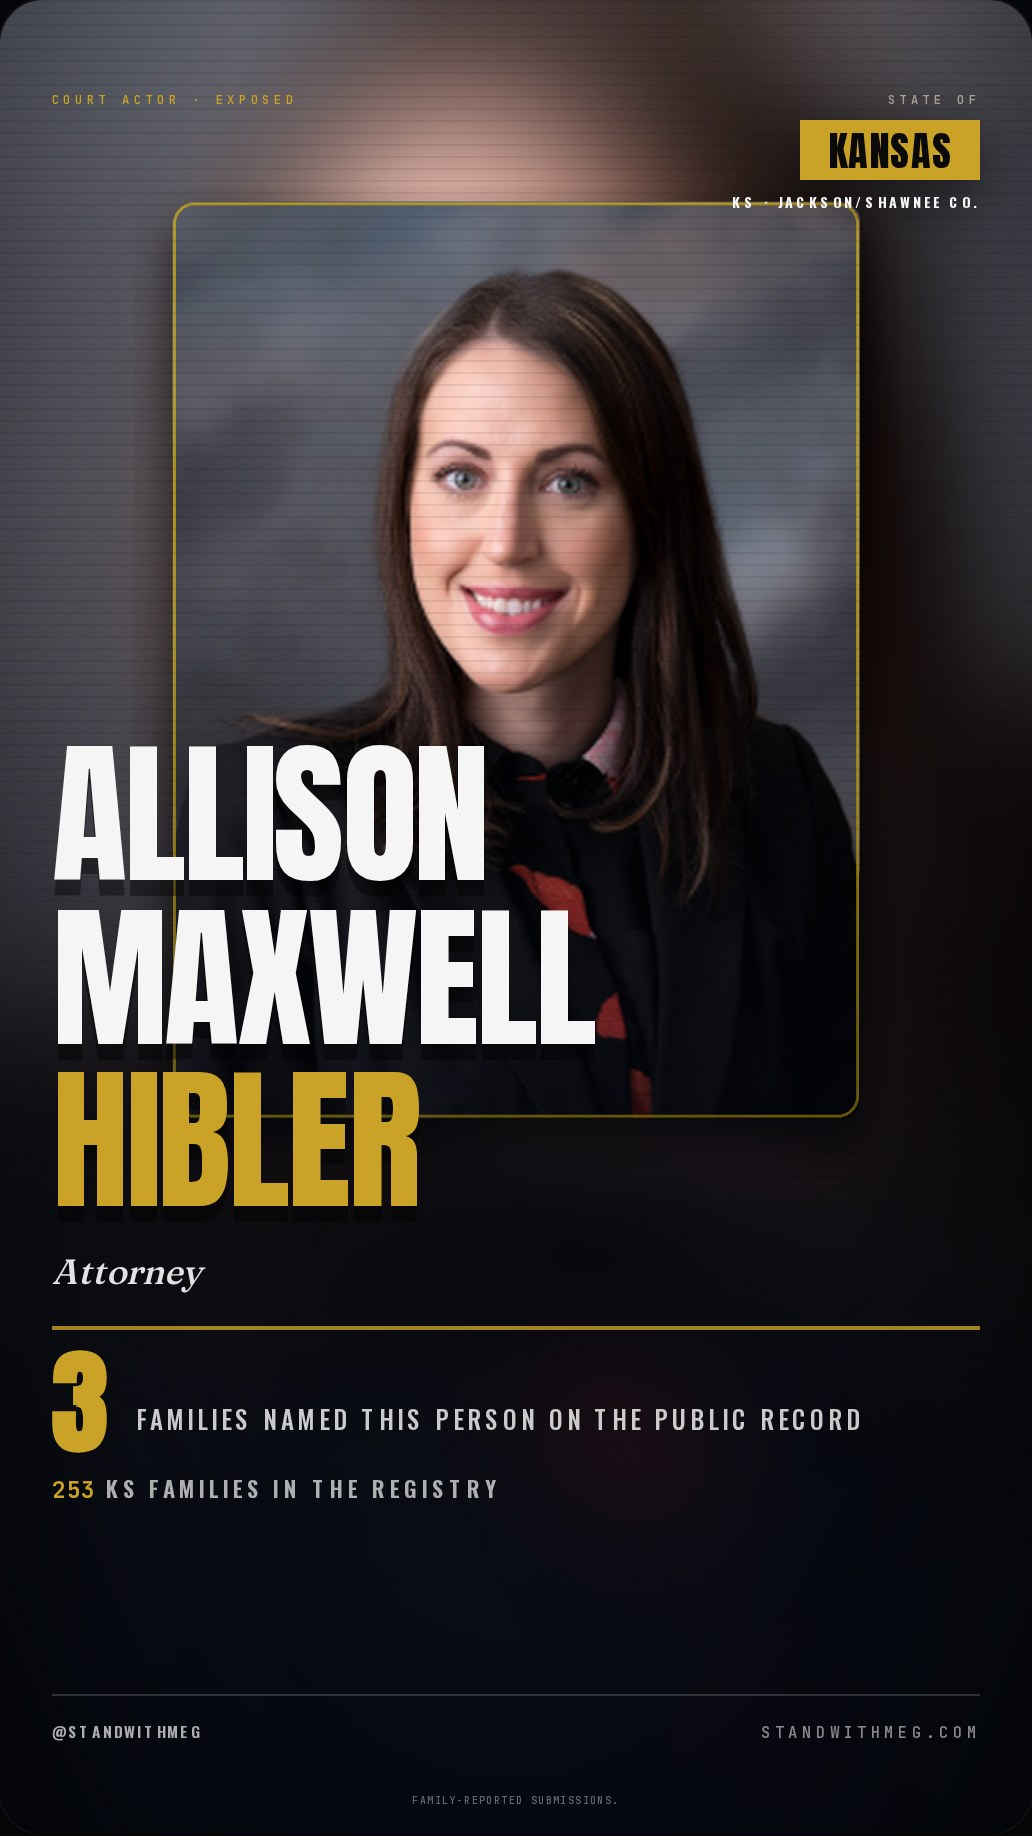
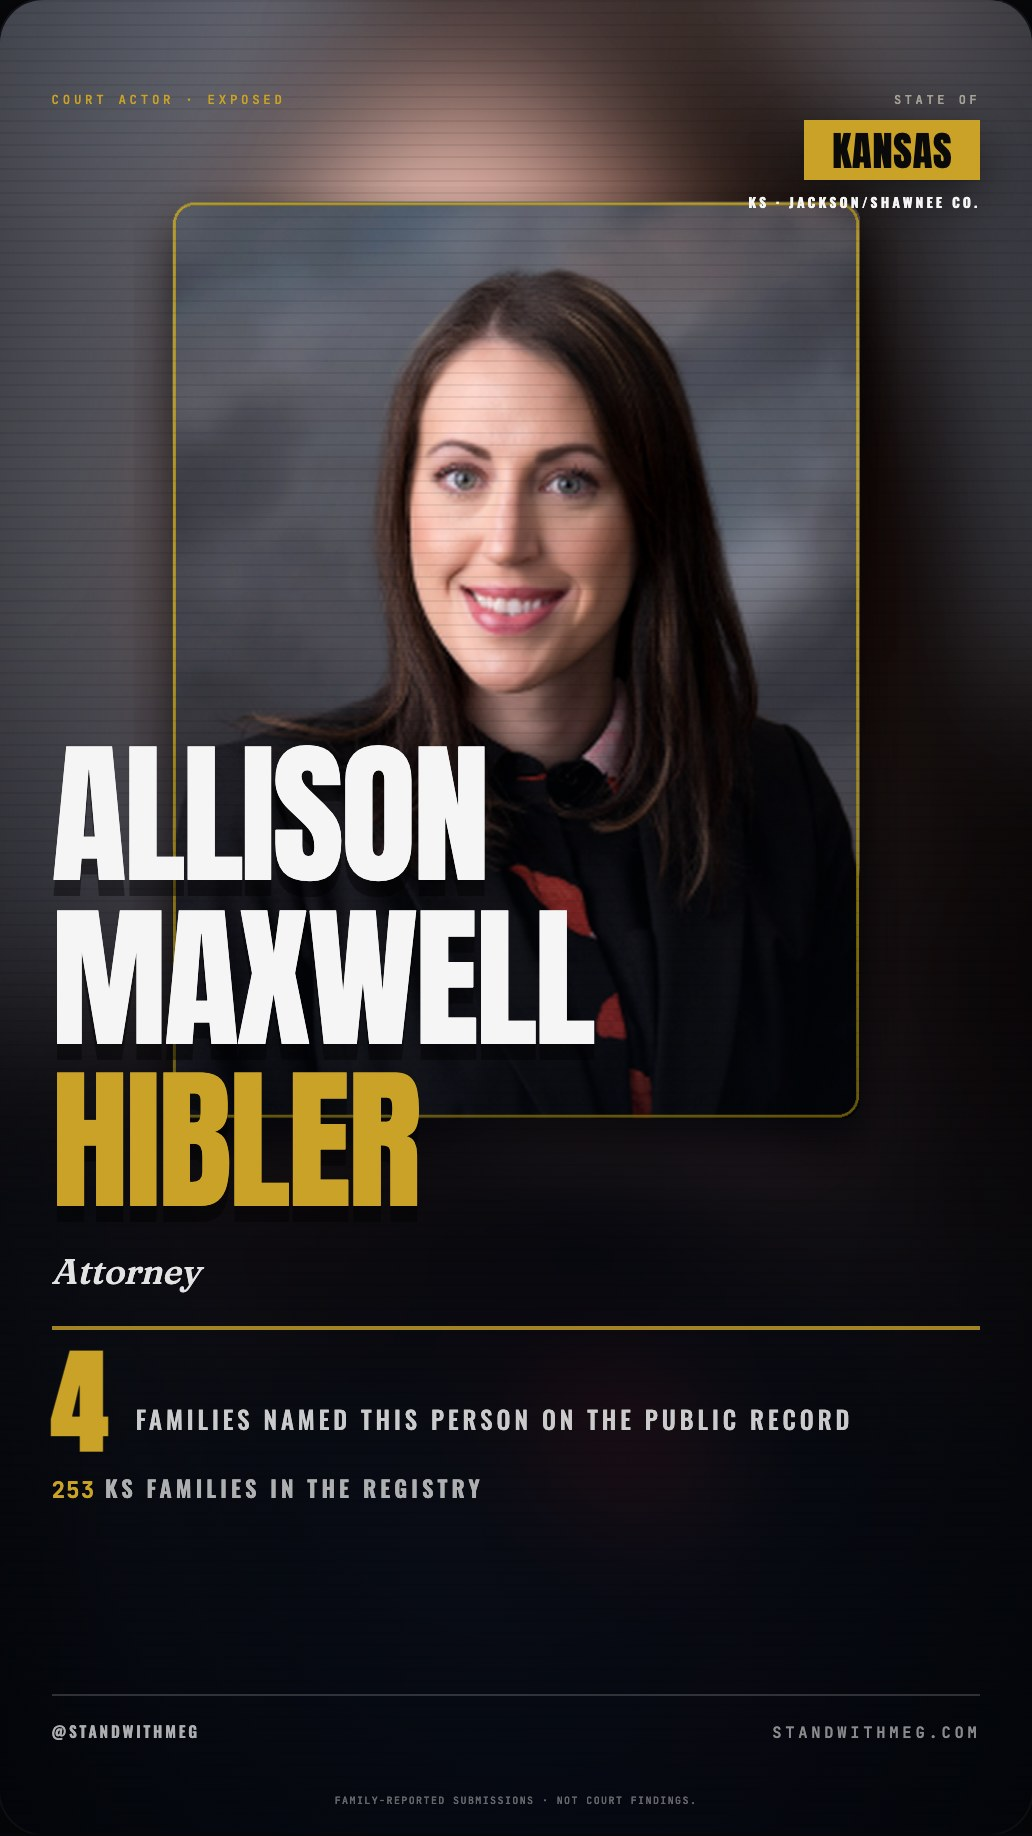
deploy(actors): wire photo for Allison Maxwell Hibler (KS)

diff --git a/public/court-actors/ks/alison_hibler/share.html b/public/court-actors/ks/alison_hibler/share.html
@@ -532,21 +532,6 @@ html,body { background:#06070A; color:var(--white); font-family:Inter,system-ui,
 .review li { margin:8px 0; }
 
 @media (min-width:760px) { .share-scroll { padding-top:28px; } }
-/* Sponsor spotlight slot */
-.sponsor-slot { width:min(100%,540px); margin:14px auto 0; padding:0 12px; }
-.sponsor-slot-label { font-family:'JetBrains Mono',monospace; font-size:11px; letter-spacing:.16em; text-transform:uppercase; color:var(--gold); margin-bottom:8px; }
-.sponsor-card { background:linear-gradient(180deg,#ffffff,#f4f6f9); border-radius:14px; padding:16px; color:#15202b; box-shadow:0 16px 36px -16px rgba(0,0,0,.55); }
-.sponsor-card img { max-height:44px; width:auto; margin-bottom:10px; display:block; }
-.sponsor-card .services { font-size:13px; font-weight:800; }
-.sponsor-card .location { font-size:11px; color:#5b6675; margin-top:2px; }
-.sponsor-card .divider { height:1px; background:#e6e9ee; margin:12px 0; }
-.sponsor-card .phone { font-size:13px; font-weight:800; }
-.sponsor-card .tagline { font-size:11px; color:#7a8493; font-style:italic; margin-top:2px; }
-.sponsor-card .cta { display:inline-block; padding:8px 14px; border-radius:8px; font-size:12px; font-weight:800; color:#fff; text-decoration:none; }
-.sponsor-empty { display:block; border:2px dashed rgba(201,162,39,.4); border-radius:14px; padding:16px; text-align:center; text-decoration:none; }
-.sponsor-empty .eyebrow { font-size:10px; font-weight:800; text-transform:uppercase; letter-spacing:.14em; color:rgba(245,245,245,.45); }
-.sponsor-empty .headline { font-size:14px; font-weight:800; color:var(--gold); margin-top:6px; }
-.sponsor-empty .sub { font-size:11px; color:rgba(245,245,245,.5); margin-top:2px; }
 </style>
 </head>
 <body>
@@ -560,17 +545,10 @@ html,body { background:#06070A; color:var(--white); font-family:Inter,system-ui,
   </button>
 </div>
 <div class="bulk-progress" id="bulk-progress"></div>
-<section class="sponsor-slot" id="sponsor-slot" data-state="KS">
-  <a href="/sponsor" target="_blank" rel="noopener noreferrer" class="sponsor-empty">
-    <div class="eyebrow">Sponsor this spotlight</div>
-    <div class="headline">Your business here</div>
-    <div class="sub">Become a sponsor →</div>
-  </a>
-</section>
 <main class="share-scroll">
 <section class="phone-frame">
 <article class="frame frame-image" id="frame-01">
-  <img class="frame-img" src="frame-01.jpg?v=8ba9556ebd" alt="Allison Maxwell Hibler share slide 1 of 7">
+  <img class="frame-img" src="frame-01.jpg" alt="Allison Maxwell Hibler share slide 1 of 7">
 </article>
 
 <div class="frame-actions" aria-label="Frame 1 actions">
@@ -580,7 +558,7 @@ html,body { background:#06070A; color:var(--white); font-family:Inter,system-ui,
 </section>
 <section class="phone-frame">
 <article class="frame frame-image" id="frame-02">
-  <img class="frame-img" src="frame-02.jpg?v=ea53ec36eb" alt="Allison Maxwell Hibler share slide 2 of 7">
+  <img class="frame-img" src="frame-02.jpg" alt="Allison Maxwell Hibler share slide 2 of 7">
 </article>
 
 <div class="frame-actions" aria-label="Frame 2 actions">
@@ -590,7 +568,7 @@ html,body { background:#06070A; color:var(--white); font-family:Inter,system-ui,
 </section>
 <section class="phone-frame">
 <article class="frame frame-image" id="frame-03">
-  <img class="frame-img" src="frame-03.jpg?v=943d690916" alt="Allison Maxwell Hibler share slide 3 of 7">
+  <img class="frame-img" src="frame-03.jpg" alt="Allison Maxwell Hibler share slide 3 of 7">
 </article>
 
 <div class="frame-actions" aria-label="Frame 3 actions">
@@ -600,7 +578,7 @@ html,body { background:#06070A; color:var(--white); font-family:Inter,system-ui,
 </section>
 <section class="phone-frame">
 <article class="frame frame-image" id="frame-04">
-  <img class="frame-img" src="frame-04.jpg?v=69479ad560" alt="Allison Maxwell Hibler share slide 4 of 7">
+  <img class="frame-img" src="frame-04.jpg" alt="Allison Maxwell Hibler share slide 4 of 7">
 </article>
 
 <div class="frame-actions" aria-label="Frame 4 actions">
@@ -610,7 +588,7 @@ html,body { background:#06070A; color:var(--white); font-family:Inter,system-ui,
 </section>
 <section class="phone-frame">
 <article class="frame frame-image" id="frame-05">
-  <img class="frame-img" src="frame-05.jpg?v=7eaf320b36" alt="Allison Maxwell Hibler share slide 5 of 7">
+  <img class="frame-img" src="frame-05.jpg" alt="Allison Maxwell Hibler share slide 5 of 7">
 </article>
 
 <div class="frame-actions" aria-label="Frame 5 actions">
@@ -620,7 +598,7 @@ html,body { background:#06070A; color:var(--white); font-family:Inter,system-ui,
 </section>
 <section class="phone-frame">
 <article class="frame frame-image" id="frame-06">
-  <img class="frame-img" src="frame-06.jpg?v=ee3dca8e4b" alt="Allison Maxwell Hibler share slide 6 of 7">
+  <img class="frame-img" src="frame-06.jpg" alt="Allison Maxwell Hibler share slide 6 of 7">
 </article>
 
 <div class="frame-actions" aria-label="Frame 6 actions">
@@ -630,7 +608,7 @@ html,body { background:#06070A; color:var(--white); font-family:Inter,system-ui,
 </section>
 <section class="phone-frame">
 <article class="frame frame-image" id="frame-07">
-  <img class="frame-img" src="frame-07.jpg?v=3b82f89e88" alt="Allison Maxwell Hibler share slide 7 of 7">
+  <img class="frame-img" src="frame-07.jpg" alt="Allison Maxwell Hibler share slide 7 of 7">
 </article>
 
 <div class="frame-actions" aria-label="Frame 7 actions">
@@ -689,7 +667,7 @@ html,body { background:#06070A; color:var(--white); font-family:Inter,system-ui,
     <div class="display xl">ALLISON MAXWELL<br><span class="gold">HIBLER</span></div>
     <div class="f1-role">Attorney</div>
     <div class="f1-report-count">
-      <b>3</b>
+      <b>4</b>
       <span>families named this person on the public record</span>
     </div>
     <div class="f1-state-count"><b>253</b> KS families in the Registry</div>
@@ -700,7 +678,7 @@ html,body { background:#06070A; color:var(--white); font-family:Inter,system-ui,
   <div class="mf-url">STANDWITHMEG.COM</div>
 </div>
 
-  <div class="legal">Family-reported submissions.</div>
+  <div class="legal">Family-reported submissions · not court findings.</div>
 </article>
 
 
@@ -746,8 +724,8 @@ html,body { background:#06070A; color:var(--white); font-family:Inter,system-ui,
 </div>
 
   <div class="frame-tag">WHAT FAMILIES SAY</div>
-  <div class="f4-body f4-count-2">
-    <div class="f4-quote"><span class="f4-dot"></span><p class="f4-text">Multiple incidents of failure to notify me of court dates. Did not place other party on child support after request. Coerced me into having a GAL and case manager against my wishes due to finances. Thousands of dollars spent with nothing done.</p><p class="f4-attr">— Anonymous parent · KS</p></div><div class="f4-quote"><span class="f4-dot"></span><p class="f4-text">Lacks effective explanatory communication. Truly believe she means well in my case, however is overly busy resulting in borderline neglect of active cases until necessary to respond just prior to approaching court dates.</p><p class="f4-attr">— Anonymous parent · KS</p></div>
+  <div class="f4-body f4-count-1 f4-solo--long">
+    <div class="f4-quote"><span class="f4-dot"></span><p class="f4-text">Lacks initiative to end delay tactics. Lacks effective explanatory communication. Truly believe she means well in my case, however is overly busy resulting in borderline neglect of active cases until necessary to respond just prior to approaching court dates. AKA Allison Maxwell Hibler, appears in log under both names needing merged.</p><p class="f4-attr">— Anonymous parent · KS</p></div>
   </div>
 
 <div class="actor-id-strip">
@@ -761,7 +739,7 @@ html,body { background:#06070A; color:var(--white); font-family:Inter,system-ui,
   <div class="mf-url">STANDWITHMEG.COM</div>
 </div>
 
-  <div class="legal">Family-reported submissions.</div>
+  <div class="legal">Family-reported submissions · not court findings.</div>
 </article>
 
 
@@ -838,7 +816,7 @@ html,body { background:#06070A; color:var(--white); font-family:Inter,system-ui,
   <div class="mf-url">STANDWITHMEG.COM</div>
 </div>
 
-  <div class="legal">Family-reported submissions.</div>
+  <div class="legal">Family-reported submissions · not court findings.</div>
 </article>
 
 
@@ -890,7 +868,7 @@ html,body { background:#06070A; color:var(--white); font-family:Inter,system-ui,
 
   <div class="frame-tag">COUNTED · PUBLIC RECORD</div>
   <div class="f5-stack">
-    <div class="f5-mega-number">5,430</div>
+    <div class="f5-mega-number">5,437</div>
     <div class="f5-mega-label">FAMILIES<br>NATIONWIDE</div>
     <div class="f5-italic">— and now global.</div>
     <div class="f5-pattern">
@@ -910,7 +888,7 @@ html,body { background:#06070A; color:var(--white); font-family:Inter,system-ui,
   <div class="mf-url">STANDWITHMEG.COM</div>
 </div>
 
-  <div class="legal">Family-reported submissions.</div>
+  <div class="legal">Family-reported submissions · not court findings.</div>
 </article>
 
 
@@ -977,7 +955,7 @@ html,body { background:#06070A; color:var(--white); font-family:Inter,system-ui,
   <div class="mf-url">STANDWITHMEG.COM</div>
 </div>
 
-  <div class="legal">Family-reported submissions.</div>
+  <div class="legal">Family-reported submissions · not court findings.</div>
 </article>
 
 
@@ -1029,7 +1007,7 @@ html,body { background:#06070A; color:var(--white); font-family:Inter,system-ui,
     <span class="gold">MEG.</span>
   </div>
   <div class="f7-cta-text">
-    Join over <b class="f7-count">5,430</b><br>
+    Join over <b class="f7-count">5,437</b><br>
     families nationwide &amp; global<br>
     exposing the truth.
   </div>
@@ -1037,7 +1015,7 @@ html,body { background:#06070A; color:var(--white); font-family:Inter,system-ui,
     <div class="f7-visit">VISIT</div>
     <div class="url-pill"><span class="dot"></span>STANDWITHMEG.COM</div>
   </div>
-  <div class="legal f7-legal">FAMILY-REPORTED SUBMISSIONS.</div>
+  <div class="legal f7-legal">FAMILY-REPORTED · NOT COURT FINDINGS</div>
 </article>
 
 </div>
@@ -1046,7 +1024,7 @@ html,body { background:#06070A; color:var(--white); font-family:Inter,system-ui,
   <details>
     <summary>Audit notes</summary>
     <p>Spec source: <code>New Final Post and Capcut template/export/alison_hibler</code></p>
-    <ul><li>pdf_public_actor: no &#x27;Allison Maxwell Hibler&#x27; in cache for KS</li></ul>
+    <ul><li>No unresolved fields recorded.</li></ul>
   </details>
 </aside>
 <script>
@@ -1326,44 +1304,6 @@ async function shareAllFrames() {
 
 document.getElementById('save-all-btn')?.addEventListener('click', saveAllFrames);
 document.getElementById('share-all-btn')?.addEventListener('click', shareAllFrames);
-// Sponsor spotlight slot — populated from /api/sponsors if an approved sponsor exists.
-(function() {
-  const slot = document.getElementById('sponsor-slot');
-  if (!slot) return;
-  const state = (slot.dataset.state || '').trim();
-  function esc(t) {
-    return String(t ?? '').replace(/&/g,'&amp;').replace(/</g,'&lt;').replace(/>/g,'&gt;').replace(/"/g,'&quot;');
-  }
-  function domainLabel(url) {
-    return url ? url.replace(/^https?:\/\//,'').replace(/\/$/,'') : 'Visit website';
-  }
-  function renderEmpty() {
-    slot.innerHTML = '<a href="/sponsor" target="_blank" rel="noopener noreferrer" class="sponsor-empty"><div class="eyebrow">Sponsor this spotlight</div><div class="headline">Your business here</div><div class="sub">Become a sponsor →</div></a>';
-  }
-  function renderCard(s) {
-    const accent = s.brand_color || '#1f93c7';
-    let html = '<div class="sponsor-card">';
-    if (s.logo_url) html += '<img src="' + esc(s.logo_url) + '" alt="' + esc(s.business_name) + '">';
-    if (s.services) html += '<div class="services">' + esc(s.services) + '</div>';
-    if (s.location_label) html += '<div class="location">' + esc(s.location_label) + '</div>';
-    html += '<div class="divider"></div><div style="display:flex;align-items:flex-end;justify-content:space-between;gap:12px;flex-wrap:wrap;">';
-    html += '<div>';
-    if (s.phone) html += '<div class="phone">' + esc(s.phone) + '</div>';
-    if (s.tagline) html += '<div class="tagline">' + esc(s.tagline) + '</div>';
-    html += '</div>';
-    if (s.website_url) html += '<a href="' + esc(s.website_url) + '" target="_blank" rel="noopener noreferrer" class="cta" style="background-color:' + esc(accent) + '">' + domainLabel(s.website_url) + '</a>';
-    html += '</div></div>';
-    slot.innerHTML = '<div class="sponsor-slot-label">Sponsored by</div>' + html;
-  }
-  fetch('/api/sponsors?placement=court_actor_spotlight&state=' + encodeURIComponent(state))
-    .then(r => r.json())
-    .then(d => {
-      const sponsors = Array.isArray(d && d.sponsors) ? d.sponsors : [];
-      const match = sponsors.find(x => x.slot === 'court_actor_spotlight') || sponsors[0];
-      if (match) renderCard(match); else renderEmpty();
-    })
-    .catch(() => renderEmpty());
-})();
 </script>
 </body>
 </html>
